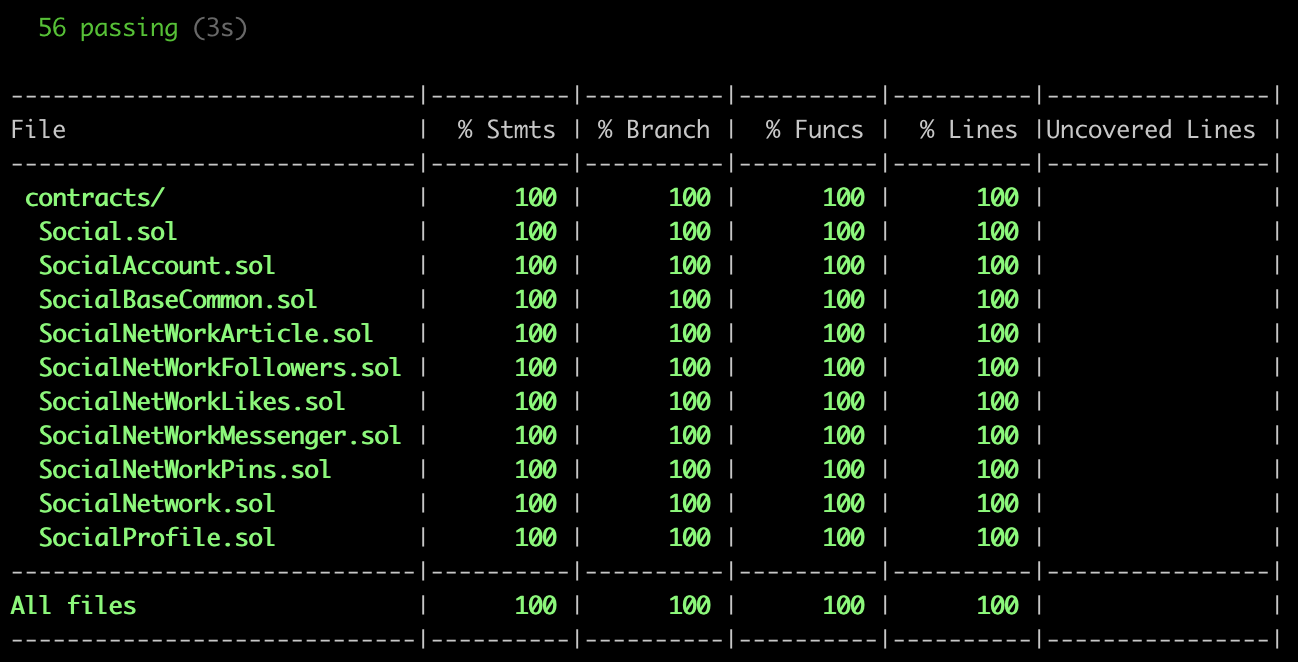
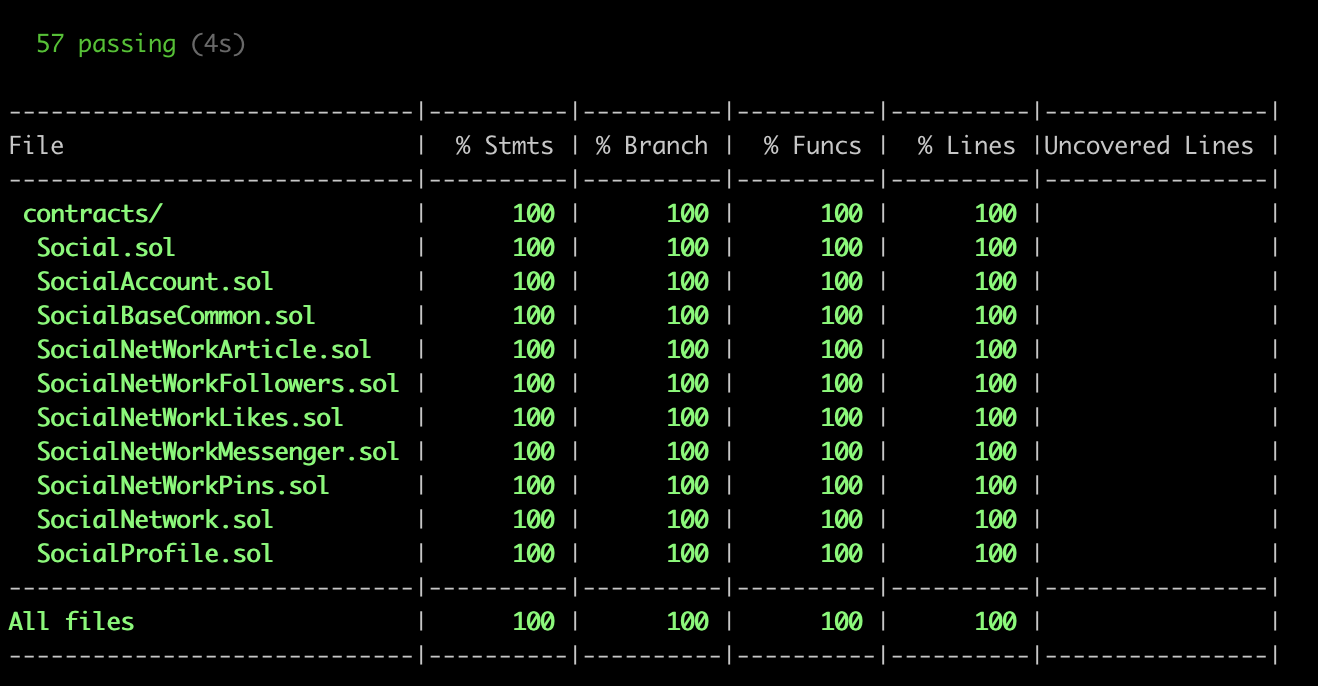
add onlyUser for getMyLastProject and fix test + update readme

diff --git a/social-backend/test/socialNetwork.ts b/social-backend/test/socialNetwork.ts
@@ -115,13 +115,25 @@ describe('SocialNetWork Contract', () => {
   });
 
   describe('OnlyUser', () => {
+    it('should revert getLastArticleFrom if not authorize(not user)', async () => {
+      const socialNetwork = await deployAndExecuteUntilStep(
+        STEP.CONTRACT_DEPLOYED
+      );
+
+      await expect(
+        socialNetwork
+          .connect(wallets[4])
+          .getLastArticleFrom(user2, getHexProof(usersAdded, notUser1))
+      ).revertedWithCustomError(socialNetwork, 'OnlyUser');
+    });
+
     it('should revert postArticle if not authorize(not user)', async () => {
       const socialNetwork = await deployAndExecuteUntilStep(
         STEP.CONTRACT_DEPLOYED
       );
       await expect(
         socialNetwork
-          .connect(wallets[3])
+          .connect(wallets[4])
           .postArticle(ARTICLE_CID, getHexProof(usersAdded, notUser1))
       ).revertedWithCustomError(socialNetwork, 'OnlyUser');
     });
@@ -132,7 +144,7 @@ describe('SocialNetWork Contract', () => {
       );
       const proof = getHexProof(usersAdded, notUser1);
       await expect(
-        socialNetwork.connect(wallets[2]).follow(user2, proof)
+        socialNetwork.connect(wallets[4]).follow(user2, proof)
       ).revertedWithCustomError(socialNetwork, 'OnlyUser');
     });
 
@@ -142,7 +154,7 @@ describe('SocialNetWork Contract', () => {
       );
       const proof = getHexProof(usersAdded, notUser1);
       await expect(
-        socialNetwork.connect(wallets[2]).unfollow(user2, proof)
+        socialNetwork.connect(wallets[4]).unfollow(user2, proof)
       ).revertedWithCustomError(socialNetwork, 'OnlyUser');
     });
 
@@ -152,7 +164,7 @@ describe('SocialNetWork Contract', () => {
       );
       const proof = getHexProof(usersAdded, notUser1);
       await expect(
-        socialNetwork.connect(wallets[2]).like(ARTICLE_CID, proof)
+        socialNetwork.connect(wallets[4]).like(ARTICLE_CID, proof)
       ).revertedWithCustomError(socialNetwork, 'OnlyUser');
     });
 
@@ -162,7 +174,7 @@ describe('SocialNetWork Contract', () => {
       );
       const proof = getHexProof(usersAdded, notUser1);
       await expect(
-        socialNetwork.connect(wallets[2]).unlike(ARTICLE_CID, proof)
+        socialNetwork.connect(wallets[4]).unlike(ARTICLE_CID, proof)
       ).revertedWithCustomError(socialNetwork, 'OnlyUser');
     });
 
@@ -172,7 +184,7 @@ describe('SocialNetWork Contract', () => {
       );
       const proof = getHexProof(usersAdded, notUser1);
       await expect(
-        socialNetwork.connect(wallets[2]).pin(ARTICLE_CID, proof)
+        socialNetwork.connect(wallets[4]).pin(ARTICLE_CID, proof)
       ).revertedWithCustomError(socialNetwork, 'OnlyUser');
     });
     it('should revert unpin if not authorize(not user)', async () => {
@@ -181,7 +193,7 @@ describe('SocialNetWork Contract', () => {
       );
       const proof = getHexProof(usersAdded, notUser1);
       await expect(
-        socialNetwork.connect(wallets[2]).unpin(ARTICLE_CID, proof)
+        socialNetwork.connect(wallets[4]).unpin(ARTICLE_CID, proof)
       ).revertedWithCustomError(socialNetwork, 'OnlyUser');
     });
   });
@@ -193,7 +205,9 @@ describe('SocialNetWork Contract', () => {
       );
 
       await expect(
-        socialNetwork.connect(wallets[3]).getLastArticleFrom(user2)
+        socialNetwork
+          .connect(wallets[2])
+          .getLastArticleFrom(user2, getHexProof(usersAdded, user2))
       ).revertedWithCustomError(socialNetwork, 'OnlyService');
     });
 
@@ -203,7 +217,7 @@ describe('SocialNetWork Contract', () => {
       );
       await expect(
         socialNetwork
-          .connect(wallets[3])
+          .connect(wallets[2])
           .postArticle(ARTICLE_CID, getHexProof(usersAdded, user2))
       ).revertedWithCustomError(socialNetwork, 'OnlyService');
     });
@@ -214,7 +228,7 @@ describe('SocialNetWork Contract', () => {
       );
       const proof = getHexProof(usersAdded, user3);
       await expect(
-        socialNetwork.connect(wallets[3]).follow(user2, proof)
+        socialNetwork.connect(wallets[2]).follow(user2, proof)
       ).revertedWithCustomError(socialNetwork, 'OnlyService');
     });
 
@@ -224,7 +238,7 @@ describe('SocialNetWork Contract', () => {
       );
       const proof = getHexProof(usersAdded, user3);
       await expect(
-        socialNetwork.connect(wallets[3]).unfollow(user2, proof)
+        socialNetwork.connect(wallets[2]).unfollow(user2, proof)
       ).revertedWithCustomError(socialNetwork, 'OnlyService');
     });
 
@@ -234,7 +248,7 @@ describe('SocialNetWork Contract', () => {
       );
       const proof = getHexProof(usersAdded, user3);
       await expect(
-        socialNetwork.connect(wallets[3]).like(ARTICLE_CID, proof)
+        socialNetwork.connect(wallets[2]).like(ARTICLE_CID, proof)
       ).revertedWithCustomError(socialNetwork, 'OnlyService');
     });
 
@@ -244,7 +258,7 @@ describe('SocialNetWork Contract', () => {
       );
       const proof = getHexProof(usersAdded, user3);
       await expect(
-        socialNetwork.connect(wallets[3]).unlike(ARTICLE_CID, proof)
+        socialNetwork.connect(wallets[2]).unlike(ARTICLE_CID, proof)
       ).revertedWithCustomError(socialNetwork, 'OnlyService');
     });
 
@@ -254,7 +268,7 @@ describe('SocialNetWork Contract', () => {
       );
       const proof = getHexProof(usersAdded, user3);
       await expect(
-        socialNetwork.connect(wallets[3]).pin(ARTICLE_CID, proof)
+        socialNetwork.connect(wallets[2]).pin(ARTICLE_CID, proof)
       ).revertedWithCustomError(socialNetwork, 'OnlyService');
     });
     it('should revert unpin if service not active', async () => {
@@ -263,7 +277,7 @@ describe('SocialNetWork Contract', () => {
       );
       const proof = getHexProof(usersAdded, user3);
       await expect(
-        socialNetwork.connect(wallets[3]).unpin(ARTICLE_CID, proof)
+        socialNetwork.connect(wallets[2]).unpin(ARTICLE_CID, proof)
       ).revertedWithCustomError(socialNetwork, 'OnlyService');
     });
   });
@@ -288,7 +302,7 @@ describe('SocialNetWork Contract', () => {
       const socialNetwork = await deployAndExecuteUntilStep(STEP.POST_CONTENT);
       const lastCid = await socialNetwork
         .connect(wallets[2])
-        .getLastArticleFrom(user2);
+        .getLastArticleFrom(user2, getHexProof(usersAdded, user2));
       assert.equal(lastCid, ARTICLE_CID);
     });
 
